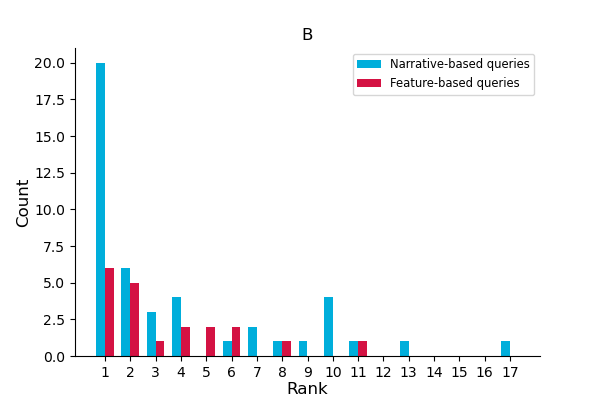
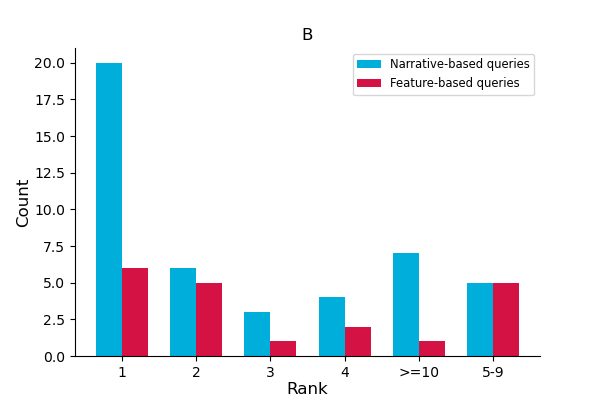
Add bins for ranks > 4

Changed region(s): [[0.15, 0.15, 0.87, 0.96]]

diff --git a/figure2.py b/figure2.py
@@ -3,6 +3,7 @@ import pandas as pd
 import numpy as np
 import seaborn as sns
 import matplotlib.pyplot as plt
+from numpy import Inf
 
 score_column = 'Score (0-5)'
 rank_column = 'Rank'
@@ -81,7 +82,23 @@ def set_empty_indices_to_zero(series: pd.Series, this_min: int,
     # Fill missing indices with zeros
     new_series = new_series.fillna(0)
 
-    return new_series.sort_index()
+    new_series.update(series)
+
+    # Fill missing indices with zeros
+    new_series = new_series.fillna(0)
+
+    bar_gt_10_value = new_series.loc[10:].sum()
+    for i in new_series.index:
+        if i >= 10:
+            new_series = new_series.drop(i)
+    new_series[">=10"] = bar_gt_10_value
+
+    # Separate data between 5 and 9 into a separate bar
+    bar_5_9_value = new_series.loc[5:9].sum()
+    new_series = new_series.drop(range(5, 10))
+    new_series["5-9"] = bar_5_9_value
+
+    return new_series
 
 
 # Find rank where score is 4 or 5, then count the number of times each rank appears
@@ -94,13 +111,15 @@ this_min = int(max(min(rank_counts_file1.index.tolist() + rank_counts_file2.inde
 rank_counts_file1 = set_empty_indices_to_zero(rank_counts_file1, this_min, this_max)
 rank_counts_file2 = set_empty_indices_to_zero(rank_counts_file2, this_min, this_max)
 
-bar3 = ax2.bar(rank_counts_file1.index - bar_width/2, rank_counts_file1, bar_width, alpha=1, label=file1_label)
-bar4 = ax2.bar(rank_counts_file2.index + bar_width/2, rank_counts_file2, bar_width, alpha=1, label=file2_label)
+bar3 = ax2.bar([i - bar_width/2 for i in list(range(1, len(rank_counts_file1.index)+1))],
+               rank_counts_file1, bar_width, alpha=1, label=file1_label)
+bar4 = ax2.bar([i + bar_width/2 for i in list(range(1, len(rank_counts_file2.index)+1))],
+               rank_counts_file2, bar_width, alpha=1, label=file2_label)
 
 ax2.set_xlabel('Rank')
 ax2.set_ylabel('Count')
 ax2.set_title('B')
-ax2.set_xticks(rank_counts_file1.index)
+ax2.set_xticks(list(range(1, len(rank_counts_file1.index)+1)))
 ax2.set_xticklabels(rank_counts_file1.index)
 ax2.legend()
 
